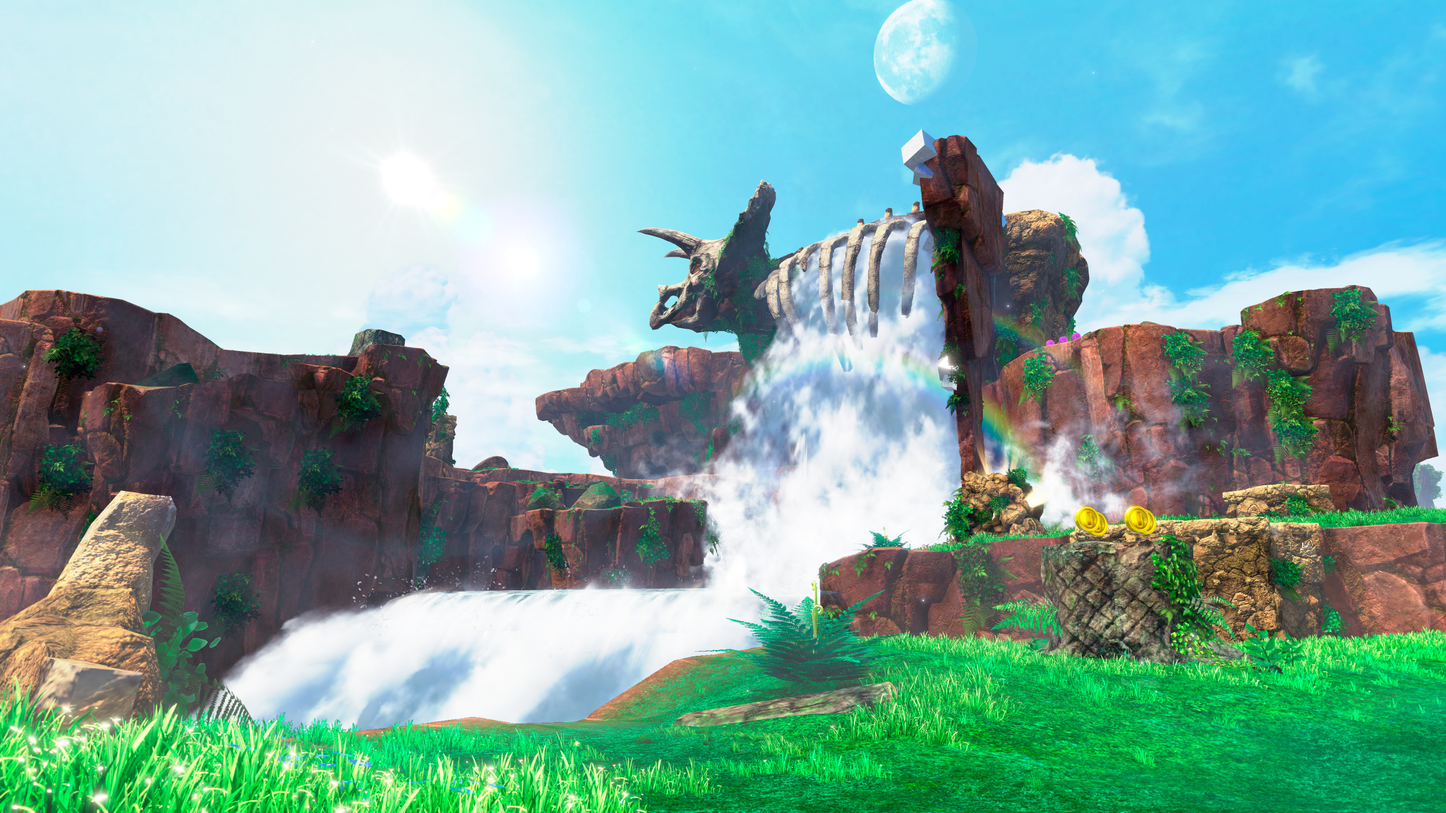
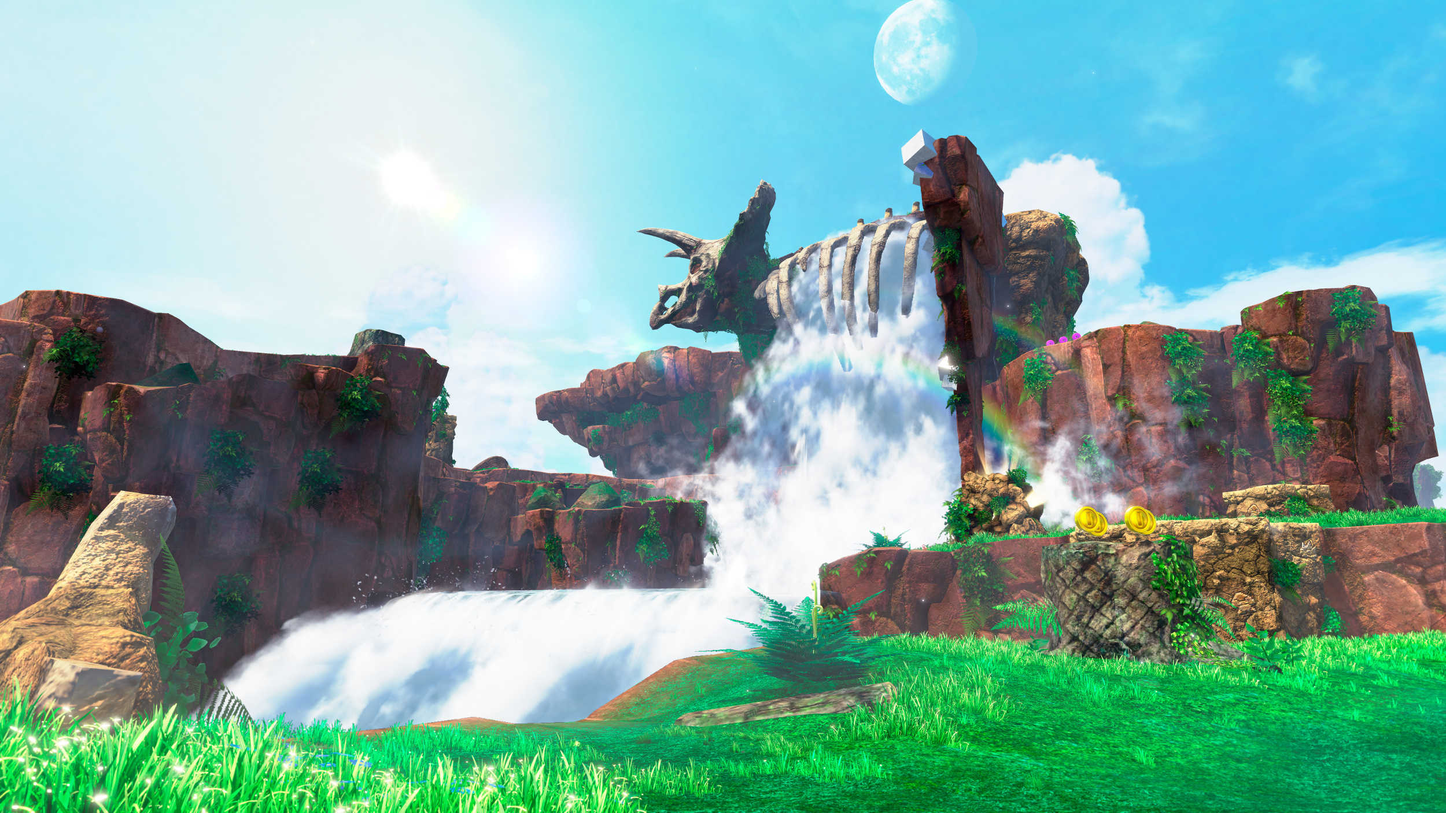
Resize images to be smaller

diff --git a/src/Viewer.tsx b/src/Viewer.tsx
@@ -10,7 +10,7 @@ import bowser from './images/bowser.jpg';
 import cap from './images/cap.jpg';
 import cascade from './images/cascade.jpg';
 import cloud from './images/cloud.jpg';
-import dark from './images/dark.png';
+import dark from './images/dark.jpg';
 import darker from './images/darker.jpg';
 import lake from './images/lake.jpg';
 import lost from './images/lost.jpg';
@@ -22,7 +22,7 @@ import ruined from './images/ruined.jpg';
 import sand from './images/sand.jpg';
 import seaside from './images/seaside.jpg';
 import smohero from './images/smohero.jpg';
-import snow from './images/snow.png';
+import snow from './images/snow.jpg';
 import wooded from './images/wooded.jpg';
 
 type ViewerProps = {
